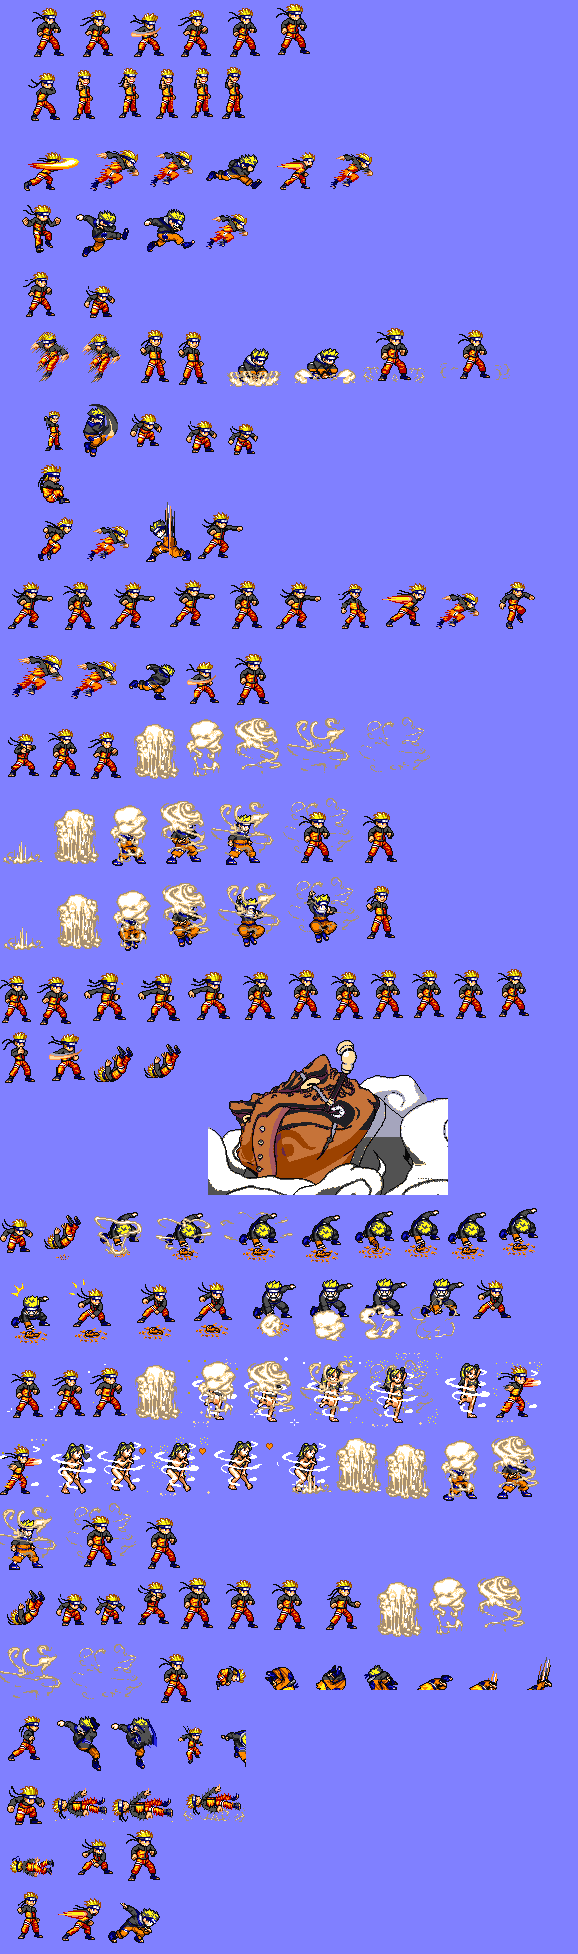
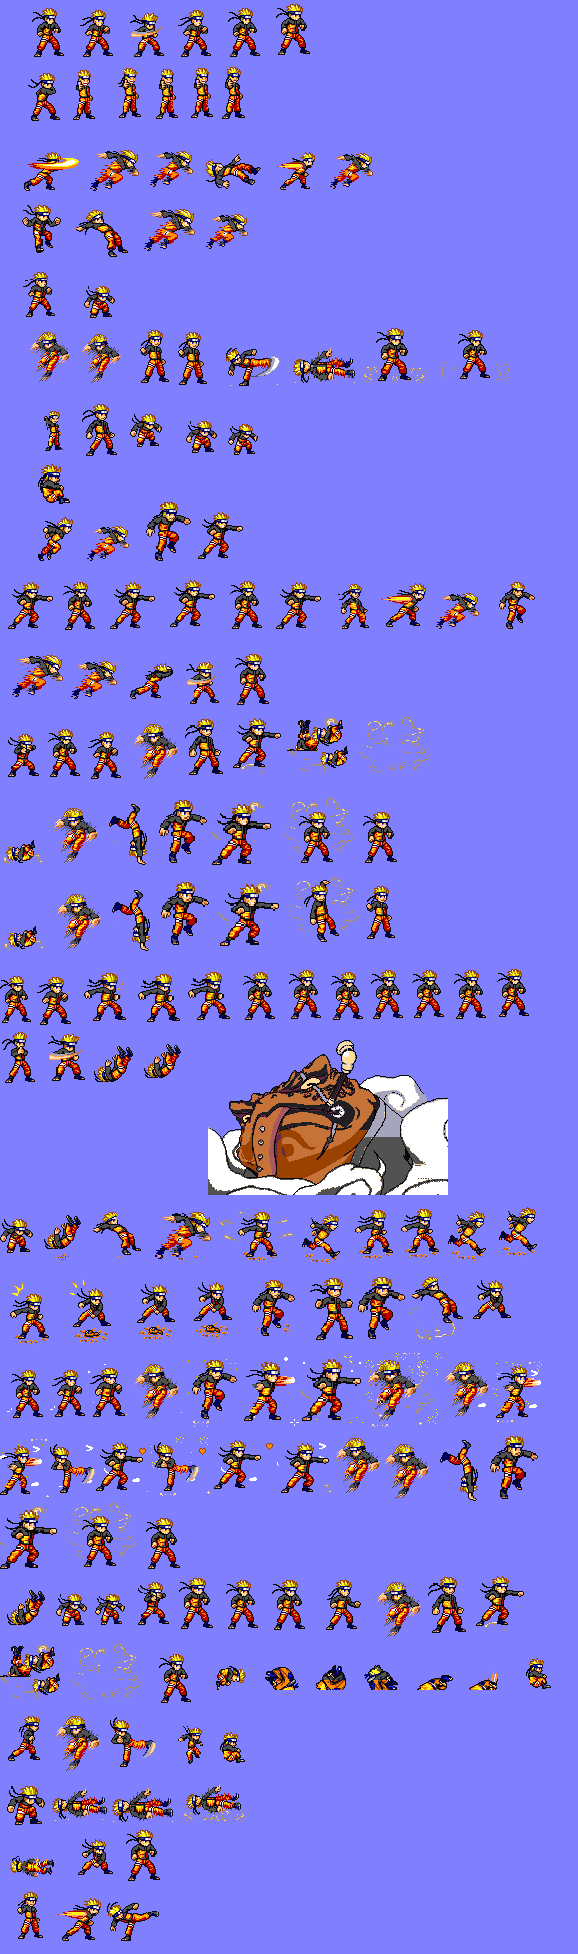
f

diff --git a/tmp/kiro-reference-sheet/make_kiro_reference_sheet_v2.py b/tmp/kiro-reference-sheet/make_kiro_reference_sheet_v2.py
@@ -18,6 +18,7 @@ KIRO_BG = (128, 128, 255, 255)
 MATCH_SIZE = 40
 MATCH_THRESHOLD = 0.70
 MAX_REFERENCE_FRAME = 100
+REPLACE_ALL_BODY_COMPONENTS = True
 
 
 def strip_source_background(im: Image.Image) -> Image.Image:
@@ -262,6 +263,25 @@ def best_match(component: dict, candidates: list[dict]) -> tuple[dict | None, fl
     return best, best_score
 
 
+def nearest_size_match(component: dict, candidates: list[dict]) -> tuple[dict | None, float]:
+    best = None
+    best_score = 0.0
+    bw = component["w"]
+    bh = component["h"]
+    area = component["size"]
+    for cand in candidates:
+        ratio_penalty = min(bw / cand["w"], cand["w"] / bw, bh / cand["h"], cand["h"] / bh)
+        area_penalty = min(area / cand["area"], cand["area"] / area)
+        aspect_a = bw / max(1, bh)
+        aspect_b = cand["w"] / max(1, cand["h"])
+        aspect_penalty = min(aspect_a / aspect_b, aspect_b / aspect_a)
+        score = ratio_penalty * 0.45 + area_penalty * 0.25 + aspect_penalty * 0.30
+        if score > best_score:
+            best = cand
+            best_score = score
+    return best, best_score
+
+
 def clear_component(canvas: Image.Image, component: dict, padding: int = 1):
     px = canvas.load()
     width, height = canvas.size
@@ -301,9 +321,15 @@ def make_sheet():
     source_components = candidate_source_components(source_alpha)
     report = []
     matched = 0
+    forced = 0
     for comp in source_components:
         cand, score = best_match(comp, candidates)
-        if cand and score >= MATCH_THRESHOLD:
+        match_type = "shape"
+        if (not cand or score < MATCH_THRESHOLD) and REPLACE_ALL_BODY_COMPONENTS:
+            cand, score = nearest_size_match(comp, candidates)
+            match_type = "size"
+            forced += 1 if cand else 0
+        if cand and (score >= MATCH_THRESHOLD or REPLACE_ALL_BODY_COMPONENTS):
             clear_component(output, comp)
             stamp_match(output, comp, cand)
             matched += 1
@@ -313,6 +339,7 @@ def make_sheet():
                     "source_size": comp["size"],
                     "kiro_frame": cand["id"],
                     "score": round(score, 4),
+                    "matchType": match_type,
                 }
             )
 
@@ -335,6 +362,8 @@ def make_sheet():
                 "candidateFrames": len(candidates),
                 "sourceComponentsConsidered": len(source_components),
                 "matchedComponents": matched,
+                "forcedSizeMatches": forced,
+                "replaceAllBodyComponents": REPLACE_ALL_BODY_COMPONENTS,
                 "matchThreshold": MATCH_THRESHOLD,
                 "matches": report,
             },
@@ -342,6 +371,7 @@ def make_sheet():
         )
     )
     print(f"matched {matched}/{len(source_components)} body-sized source components")
+    print(f"forced size matches {forced}")
     print(transparent_path)
     print(preview_path)
 
